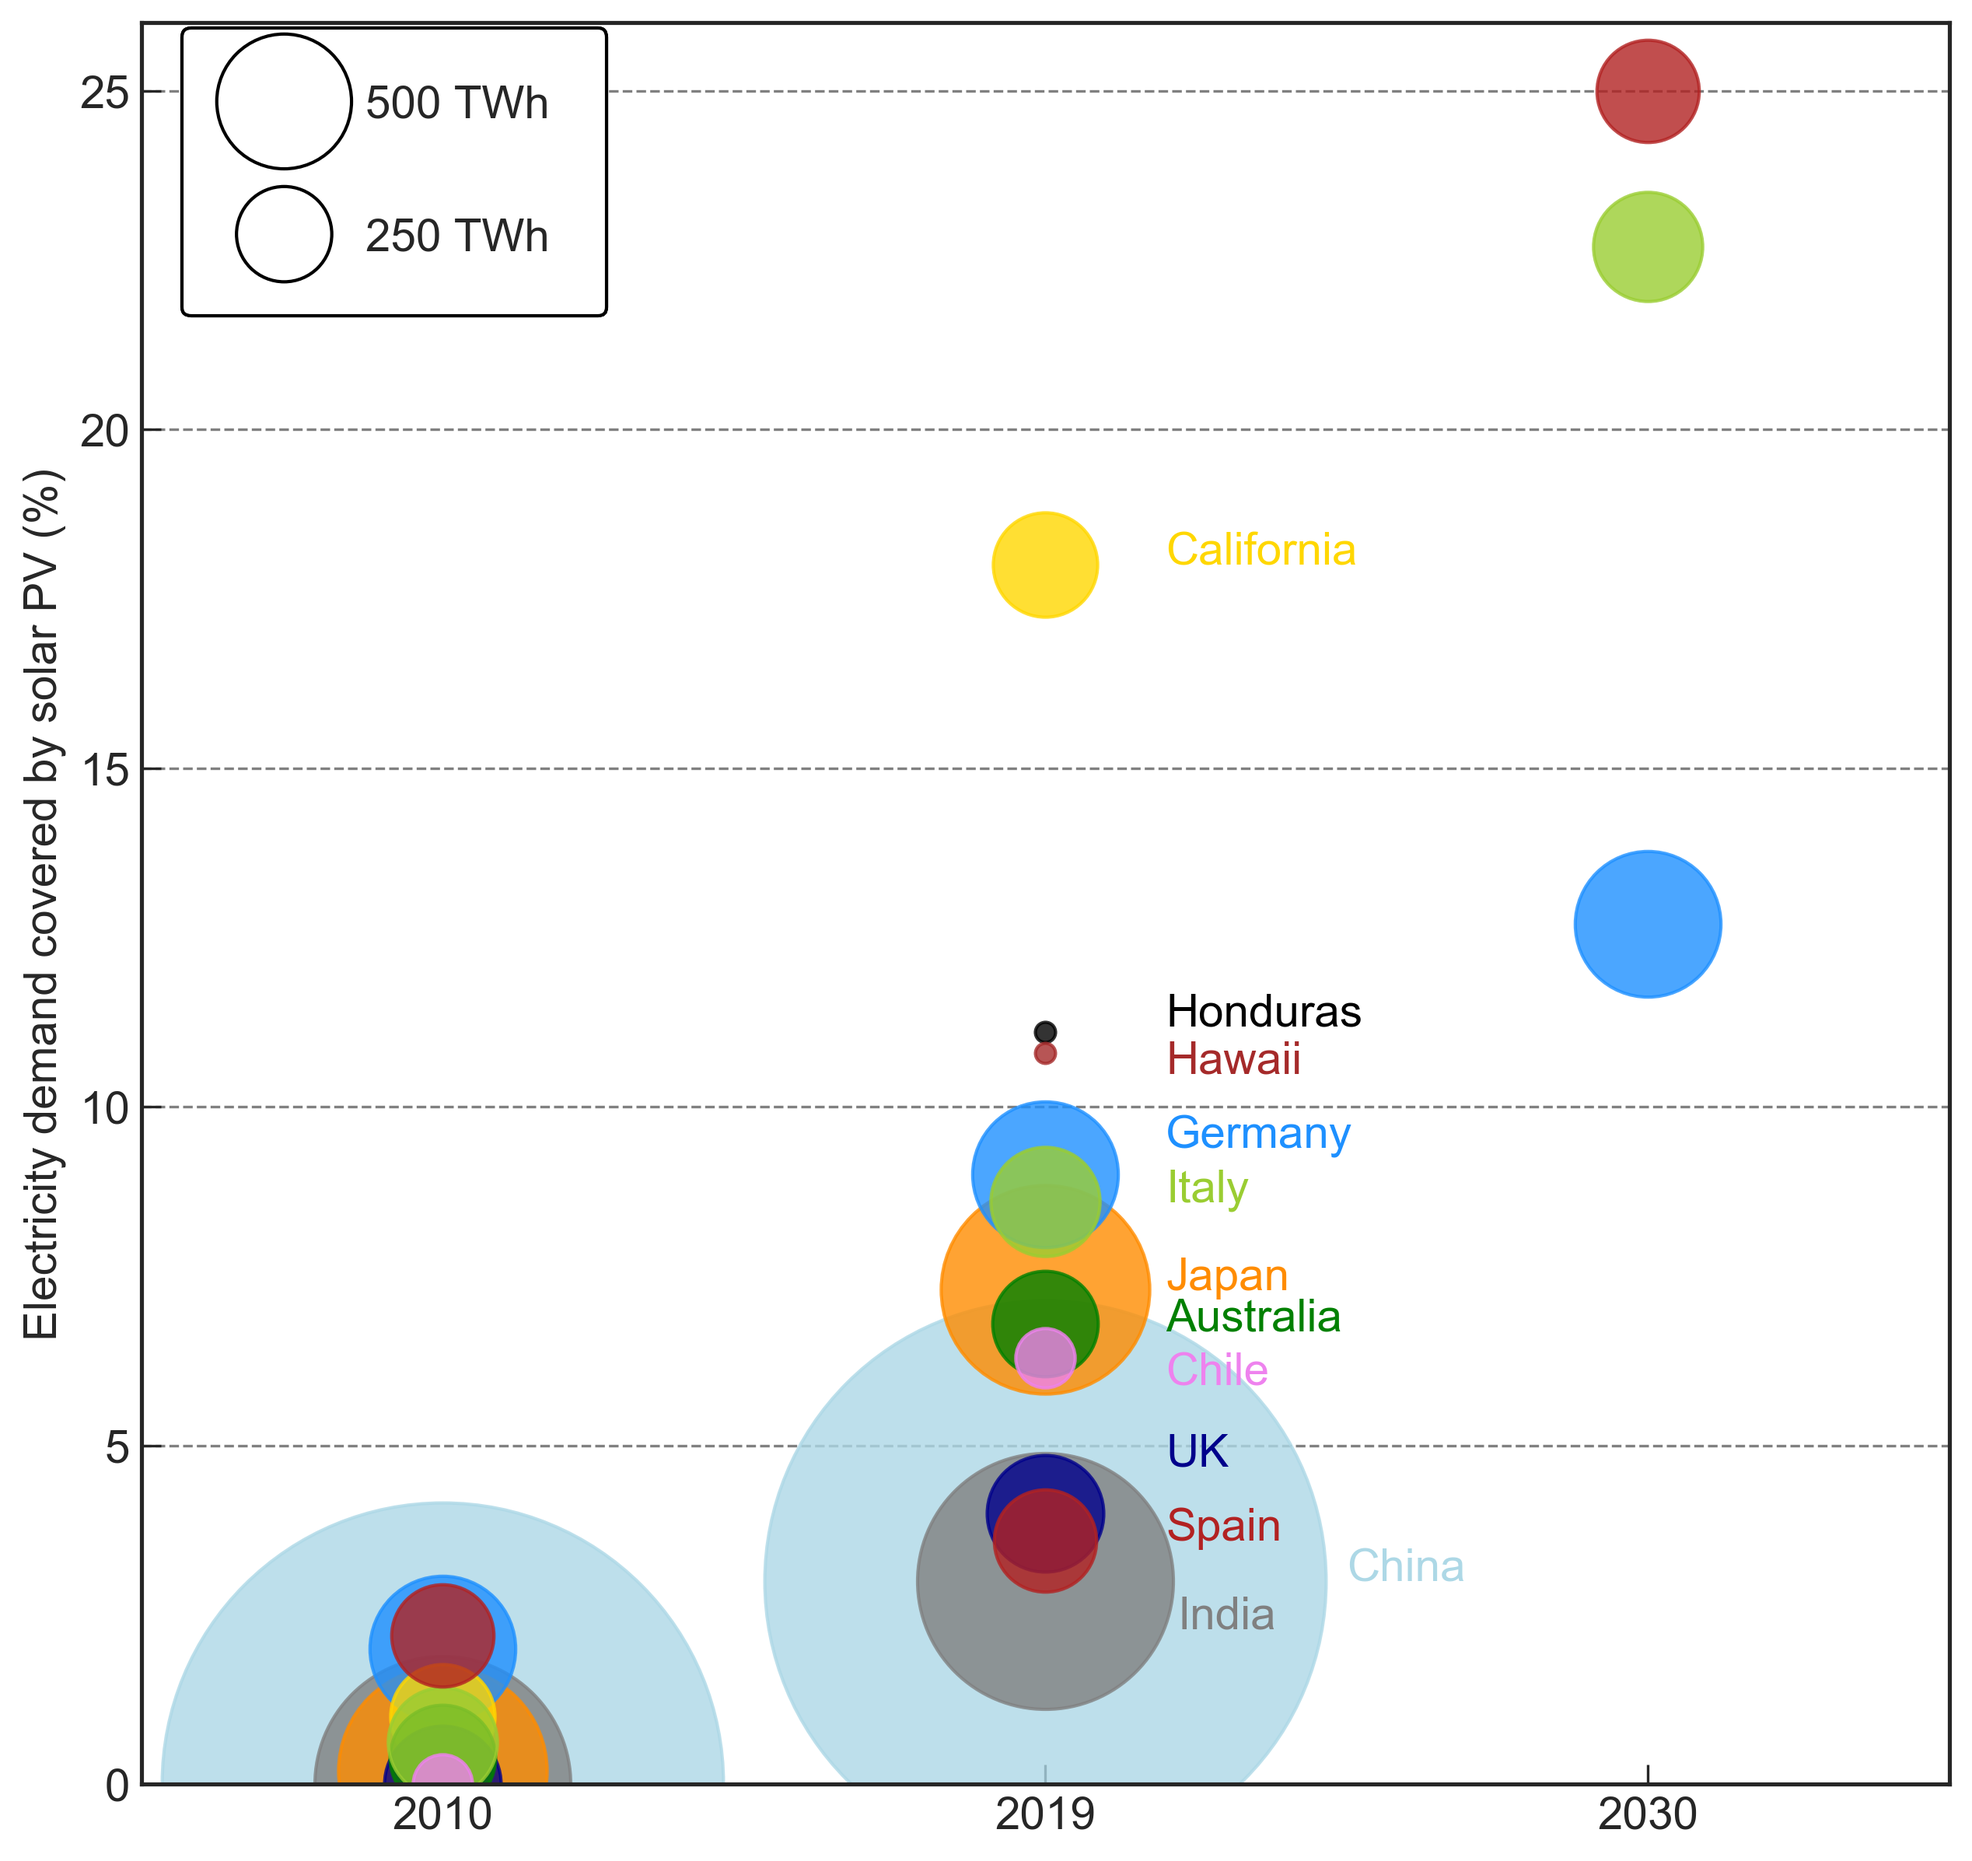
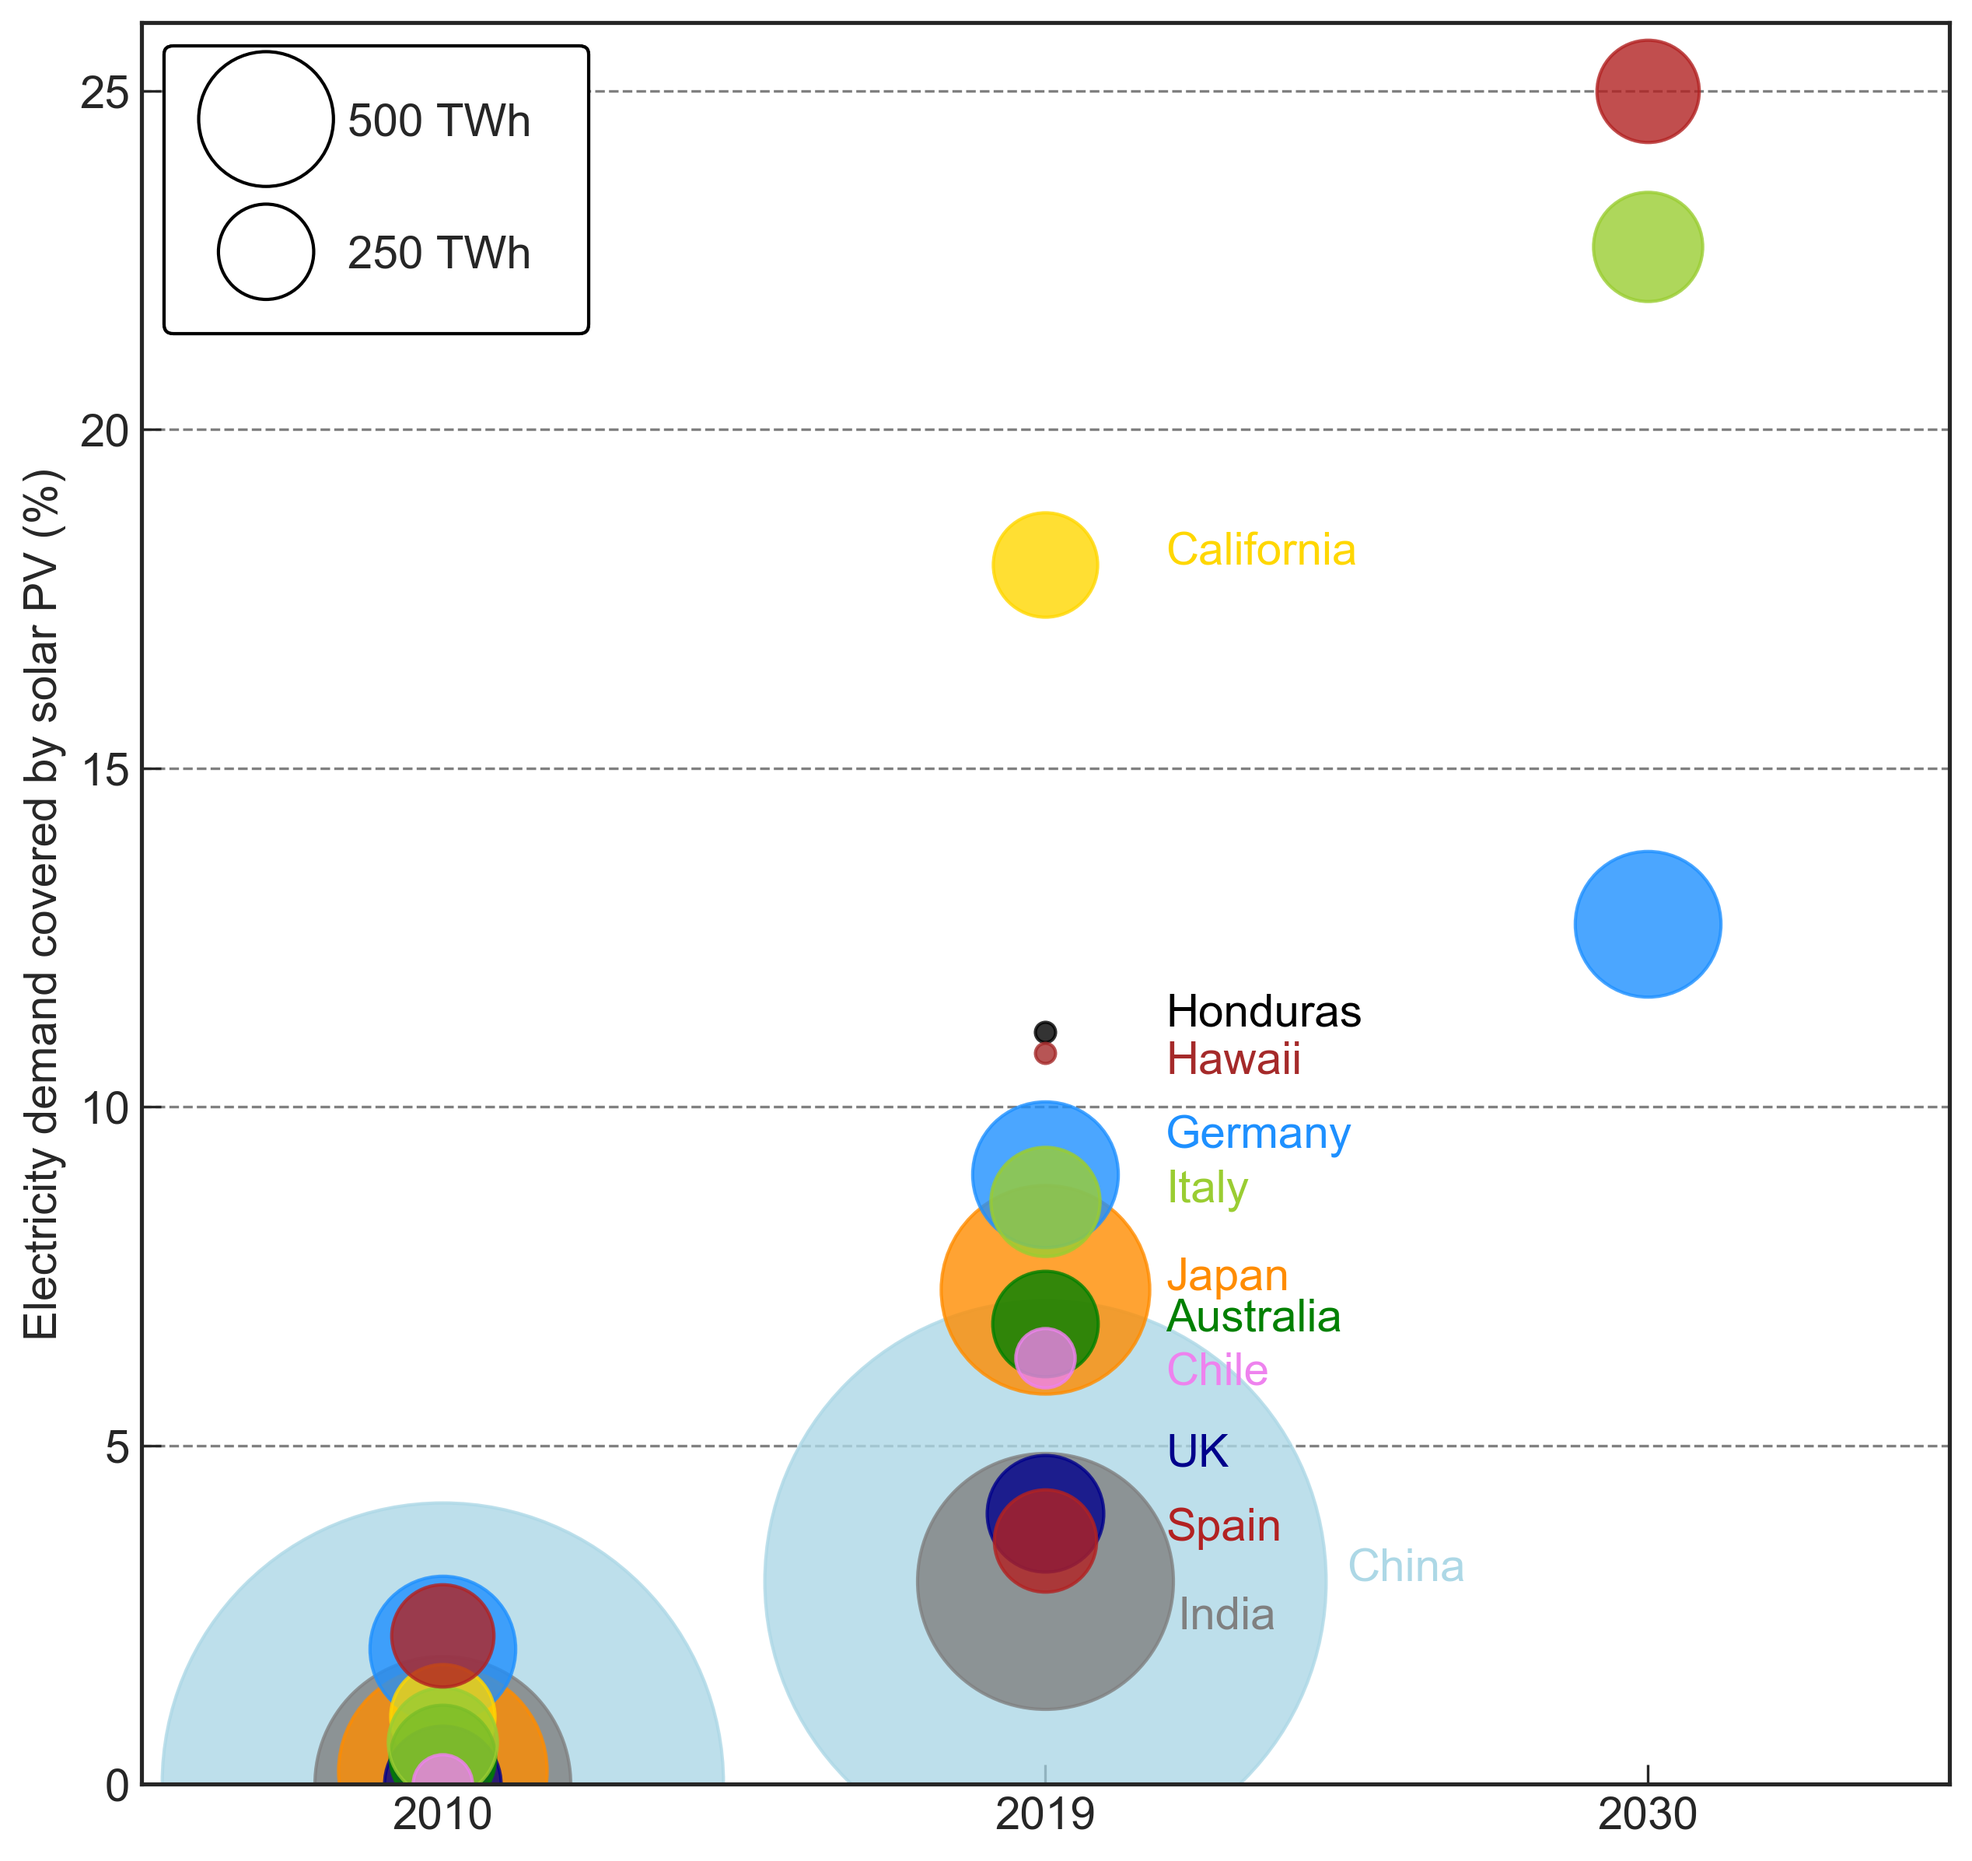
improvements in figures

Changed region(s): [[0.0623, 0.0, 0.3115, 0.1855], [0.1246, 0.0928, 0.1558, 0.1237]]

diff --git a/wind_and_solar_penetration.py b/wind_and_solar_penetration.py
@@ -48,14 +48,14 @@ ax1.text(35, 35, '100% wind & solar electricity', rotation=-45,
 for EUscenario in ['Baseline','EE', 'CIRC', 'ELEC', 'H2', 'P2X', 'COMBO', '1.5TECH', '1.5LIFE', ]:
     ax1.plot(penetration.loc[EUscenario,'solar'], penetration.loc[EUscenario,'wind'], 
              marker='o', markersize=10, color='silver')
-ax1.text(10, 55, 'PRIMES [15]', color='dimgray', fontsize=12)
+ax1.text(10, 55, 'PRIMES [19]', color='dimgray', fontsize=12)
 
 #PRIMES (Stepping-up)
 
 for EUscenario in ['BSL','REG', 'MIX', 'CPRICE', 'ALLBNK' ]:
     ax1.plot(penetration.loc[EUscenario,'solar'], penetration.loc[EUscenario,'wind'], 
              marker='o', markersize=10, color='dimgray')
-ax1.text(15, 38, 'PRIMES [16]', color='dimgray', fontsize=12)
+ax1.text(15, 38, 'PRIMES [20]', color='dimgray', fontsize=12)
 
 
 #ENTSOE

diff --git a/pv_penetration.py b/pv_penetration.py
@@ -161,8 +161,8 @@ labels = ["{} TWh".format(s) for s in (500, 250)]
 l2 = ax1.legend(handles, labels,
                 frameon=True,
                 edgecolor='black',
-                loc="upper left",                
-                bbox_to_anchor=(0.01, 1.01),
+                loc='upper left',                
+                #bbox_to_anchor=(0.01, 1.01),
                 labelspacing=2.,
                 borderpad=1.25,
                 framealpha=1.,
